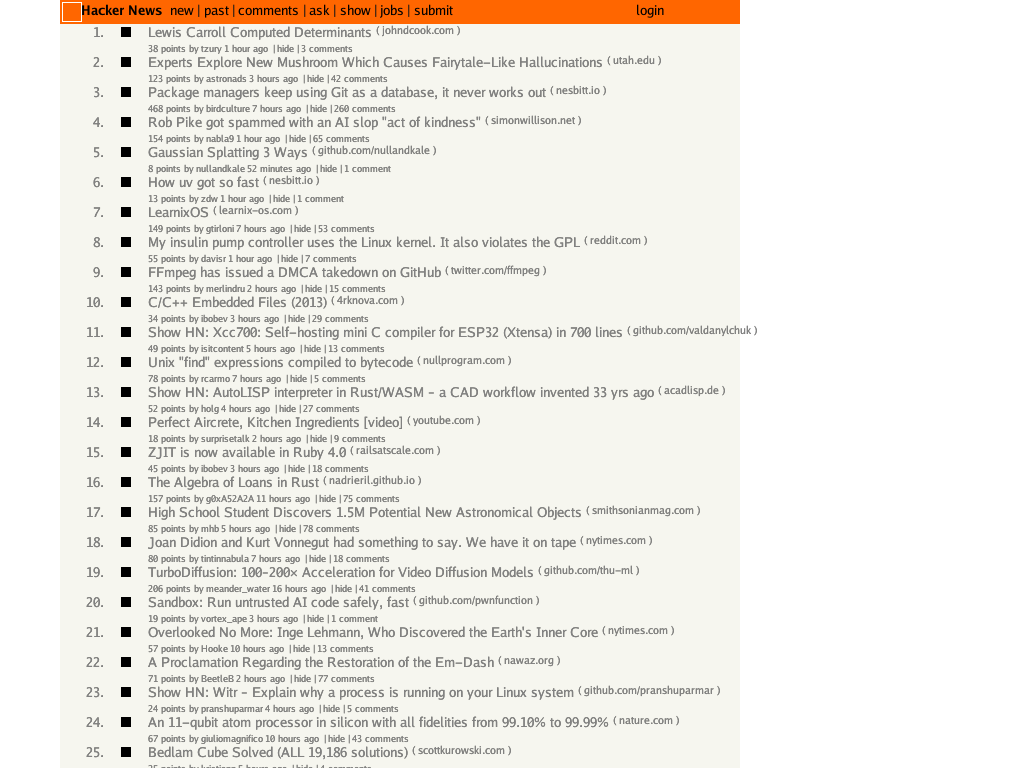
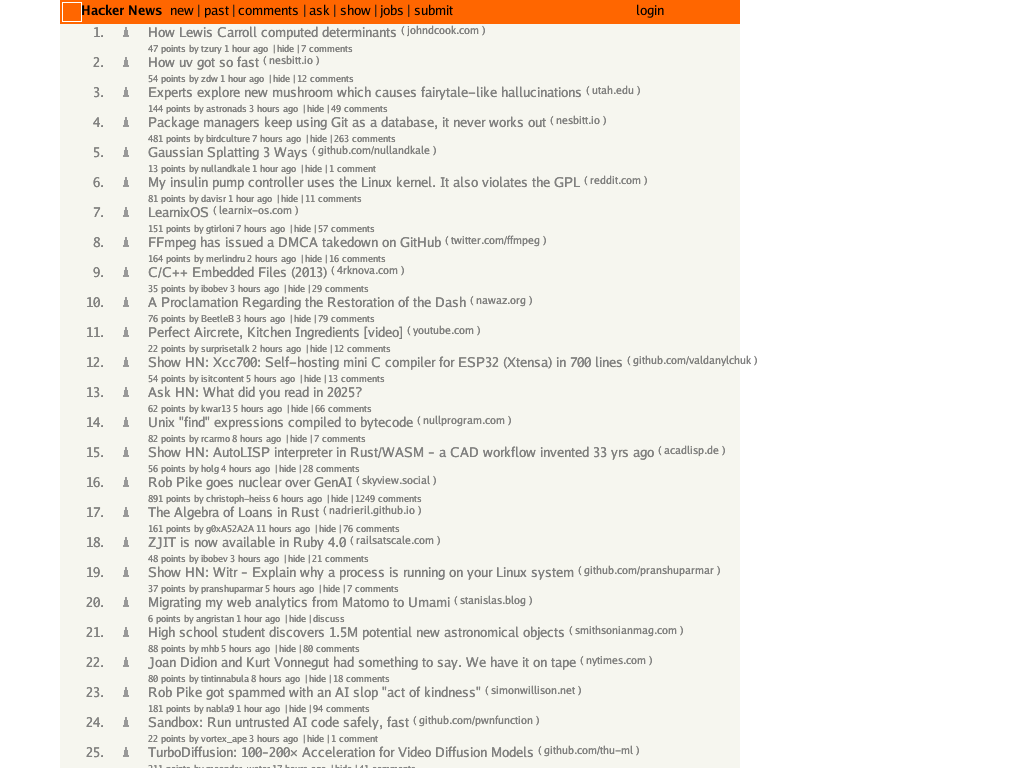
Fix arrow rendering by resolving CSS background-image URLs during style computation

Changed region(s): [[0.125, 0.3125, 0.75, 1.0], [0.125, 0.0312, 0.6562, 0.1875], [0.125, 0.2188, 0.625, 0.2812]]

diff --git a/style/style.go b/style/style.go
@@ -563,3 +563,79 @@ func applyPresentationalHints(node *dom.Node, styles map[string]string) {
 	// to ensure they override user-agent stylesheet defaults
 	// align and valign are also handled in the layout phase
 }
+
+// ResolveCSSURLs resolves relative URLs in CSS properties against a base URL.
+// This handles background-image and other CSS properties that contain URLs.
+// Per HTML5 §2.5.1, URLs should be resolved against the document's base URL.
+func ResolveCSSURLs(root *StyledNode, baseURL string) {
+	if root == nil {
+		return
+	}
+	
+	// Resolve URLs in background and background-image properties
+	for _, prop := range []string{"background", "background-image"} {
+		if value, ok := root.Styles[prop]; ok && strings.Contains(value, "url(") {
+			root.Styles[prop] = resolveURLsInValue(value, baseURL)
+		}
+	}
+	
+	// Recursively process children
+	for _, child := range root.Children {
+		ResolveCSSURLs(child, baseURL)
+	}
+}
+
+// resolveURLsInValue resolves URLs within a CSS property value.
+// Handles both url(...) and url("...") and url('...') formats.
+func resolveURLsInValue(value, baseURL string) string {
+	// Find all url(...) occurrences and resolve them
+	result := value
+	start := 0
+	for {
+		idx := strings.Index(result[start:], "url(")
+		if idx == -1 {
+			break
+		}
+		idx += start
+		
+		// Find the end of url(...)
+		end := idx + 4 // len("url(")
+		parenCount := 1
+		inQuote := false
+		quoteChar := byte(0)
+		
+		for end < len(result) && parenCount > 0 {
+			ch := result[end]
+			if !inQuote {
+				if ch == '"' || ch == '\'' {
+					inQuote = true
+					quoteChar = ch
+				} else if ch == '(' {
+					parenCount++
+				} else if ch == ')' {
+					parenCount--
+				}
+			} else {
+				if ch == quoteChar {
+					inQuote = false
+				}
+			}
+			end++
+		}
+		
+		// Extract the URL
+		urlPart := result[idx+4 : end-1] // Skip "url(" and ")"
+		urlPart = strings.TrimSpace(urlPart)
+		urlPart = strings.Trim(urlPart, "\"'")
+		
+		// Resolve the URL using dom package logic
+		resolvedURL := dom.ResolveURLString(baseURL, urlPart)
+		
+		// Replace in the result
+		newURLValue := "url(" + resolvedURL + ")"
+		result = result[:idx] + newURLValue + result[end:]
+		start = idx + len(newURLValue)
+	}
+	
+	return result
+}

diff --git a/dom/url.go b/dom/url.go
@@ -58,6 +58,13 @@ func resolveNode(node *Node, baseDir string) {
 // resolveURL resolves a potentially relative URL against a base URL.
 // HTML5 §2.5: URLs in documents are resolved against a base URL.
 func resolveURL(baseURL, relativeURL string) string {
+	return ResolveURLString(baseURL, relativeURL)
+}
+
+// ResolveURLString resolves a potentially relative URL against a base URL.
+// This is exported for use by other packages that need to resolve URLs.
+// HTML5 §2.5: URLs in documents are resolved against a base URL.
+func ResolveURLString(baseURL, relativeURL string) string {
 	// If the URL is already absolute (http:// or https://), return as-is
 	if strings.HasPrefix(relativeURL, "http://") || strings.HasPrefix(relativeURL, "https://") {
 		return relativeURL

diff --git a/cmd/browser/main.go b/cmd/browser/main.go
@@ -98,6 +98,10 @@ func main() {
 	// Compute styles
 	styledTree := style.StyleTree(doc, stylesheet)
 
+	// Resolve CSS URLs (like background-image) against base URL
+	// HTML5 §2.5.1: URLs should be resolved against the document's base URL
+	style.ResolveCSSURLs(styledTree, baseURL)
+
 	// Build layout tree
 	// Note: Height starts at 0 - it accumulates as children are laid out
 	containingBlock := layout.Dimensions{
